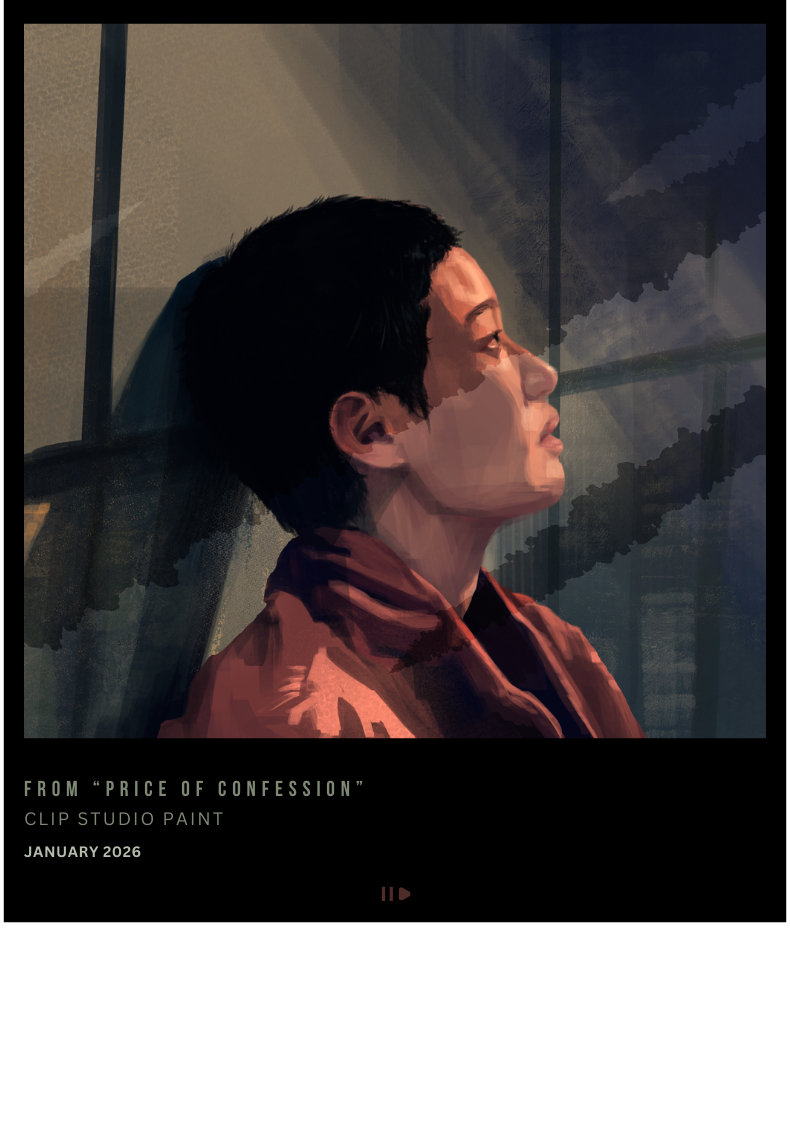
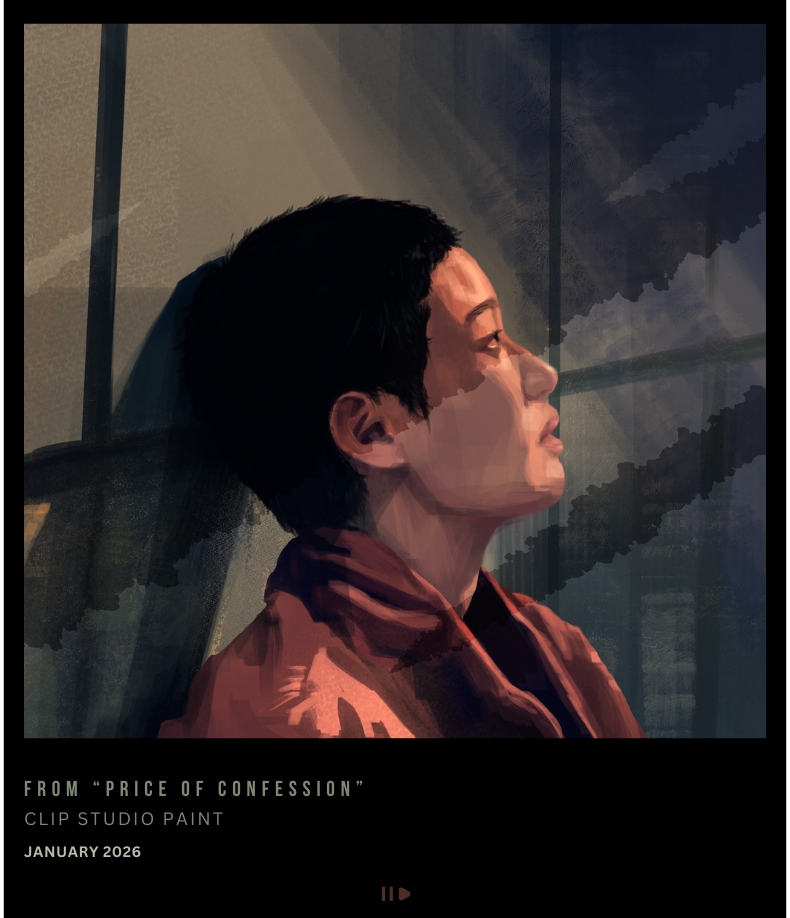
iad update

diff --git a/iad.html b/iad.html
@@ -140,20 +140,24 @@
       margin: 0 auto;
     }
     .masonry {
-      columns: 3;
-      column-gap: 12px;
+      display: grid;
+      grid-template-columns: repeat(3, 1fr);
+      gap: 12px;
+      align-items: start;
     }
-    @media (max-width: 900px) { .masonry { columns: 2; } }
-    @media (max-width: 560px) { .masonry { columns: 1; } }
+    @media (max-width: 900px) { .masonry { grid-template-columns: repeat(2, 1fr); } }
+    @media (max-width: 560px) { .masonry { grid-template-columns: 1fr; } }
 
     .masonry-item {
-      break-inside: avoid;
-      margin-bottom: 12px;
       cursor: zoom-in;
       position: relative;
       overflow: hidden;
       background: rgba(26,18,0,0.04);
     }
+    .masonry-item--hero {
+      grid-column: span 2;
+    }
+    @media (max-width: 560px) { .masonry-item--hero { grid-column: span 1; } }
     .masonry-item img {
       width: 100%;
       height: auto;
@@ -291,15 +295,13 @@
     }
     .kyoto-main-img {
       width: 100%;
-      aspect-ratio: 16/10;
       overflow: hidden;
-      background: rgba(26,18,0,0.06);
       cursor: zoom-in;
       position: relative;
     }
     .kyoto-main-img img {
-      width: 100%; height: 100%;
-      object-fit: contain;
+      width: 100%;
+      height: auto;
       display: block;
       transition: opacity 0.3s;
     }
@@ -482,7 +484,7 @@
   <div class="tabs-bar">
     <div class="tabs-inner">
       <button class="tab-btn active" onclick="switchTab('digital')" id="tab-digital">
-        Digital works <span class="tab-count">25</span>
+        Completed works <span class="tab-count">29</span>
       </button>
       <button class="tab-btn" onclick="switchTab('sketches')" id="tab-sketches">
         Sketches <span class="tab-count">10</span>
@@ -498,105 +500,121 @@
     <div class="masonry-wrap">
       <div class="masonry" id="masonry-digital">
 
-        <div class="masonry-item" onclick="openLb('digital',0)">
-          <img src="images/iad/45.png" alt="Digital work 1" loading="lazy" />
+        <div class="masonry-item masonry-item--hero" onclick="openLb('digital',0)">
+          <img src="images/iad/COME A LITTLE CLOSER.png" alt="Come a little closer" loading="lazy" />
           <div class="item-overlay"><span class="item-num">01</span></div>
         </div>
         <div class="masonry-item" onclick="openLb('digital',1)">
-          <img src="images/iad/44.png" alt="Digital work 2" loading="lazy" />
+          <img src="images/iad/BREATHE OUT THE AIR.png" alt="Breathe out the air" loading="lazy" />
           <div class="item-overlay"><span class="item-num">02</span></div>
         </div>
-        <div class="masonry-item" onclick="openLb('digital',2)">
-          <img src="images/iad/43.png" alt="Digital work 3" loading="lazy" />
+        <div class="masonry-item masonry-item--hero" onclick="openLb('digital',2)">
+          <img src="images/iad/45.png" alt="Digital work 45" loading="lazy" />
           <div class="item-overlay"><span class="item-num">03</span></div>
         </div>
         <div class="masonry-item" onclick="openLb('digital',3)">
-          <img src="images/iad/22.svg" alt="Digital work 4" loading="lazy" />
+          <img src="images/iad/CHUNKING EXPRESS.png" alt="Chunking express" loading="lazy" />
           <div class="item-overlay"><span class="item-num">04</span></div>
         </div>
-        <div class="masonry-item" onclick="openLb('digital',4)">
-          <img src="images/iad/21.svg" alt="Digital work 5" loading="lazy" />
+        <div class="masonry-item masonry-item--hero" onclick="openLb('digital',4)">
+          <img src="images/iad/43.png" alt="Digital work 43" loading="lazy" />
           <div class="item-overlay"><span class="item-num">05</span></div>
         </div>
         <div class="masonry-item" onclick="openLb('digital',5)">
-          <img src="images/iad/20.svg" alt="Digital work 6" loading="lazy" />
+          <img src="images/iad/SHARED DRINKS.png" alt="Shared drinks" loading="lazy" />
           <div class="item-overlay"><span class="item-num">06</span></div>
         </div>
         <div class="masonry-item" onclick="openLb('digital',6)">
-          <img src="images/iad/19.svg" alt="Digital work 7" loading="lazy" />
+          <img src="images/iad/44.png" alt="Digital work 44" loading="lazy" />
           <div class="item-overlay"><span class="item-num">07</span></div>
         </div>
         <div class="masonry-item" onclick="openLb('digital',7)">
-          <img src="images/iad/18.svg" alt="Digital work 8" loading="lazy" />
+          <img src="images/iad/22.svg" alt="Digital work 8" loading="lazy" />
           <div class="item-overlay"><span class="item-num">08</span></div>
         </div>
         <div class="masonry-item" onclick="openLb('digital',8)">
-          <img src="images/iad/17.svg" alt="Digital work 9" loading="lazy" />
+          <img src="images/iad/21.svg" alt="Digital work 9" loading="lazy" />
           <div class="item-overlay"><span class="item-num">09</span></div>
         </div>
         <div class="masonry-item" onclick="openLb('digital',9)">
-          <img src="images/iad/16.svg" alt="Digital work 10" loading="lazy" />
+          <img src="images/iad/20.svg" alt="Digital work 10" loading="lazy" />
           <div class="item-overlay"><span class="item-num">10</span></div>
         </div>
         <div class="masonry-item" onclick="openLb('digital',10)">
-          <img src="images/iad/15.svg" alt="Digital work 11" loading="lazy" />
+          <img src="images/iad/19.svg" alt="Digital work 11" loading="lazy" />
           <div class="item-overlay"><span class="item-num">11</span></div>
         </div>
         <div class="masonry-item" onclick="openLb('digital',11)">
-          <img src="images/iad/14.svg" alt="Digital work 12" loading="lazy" />
+          <img src="images/iad/18.svg" alt="Digital work 12" loading="lazy" />
           <div class="item-overlay"><span class="item-num">12</span></div>
         </div>
         <div class="masonry-item" onclick="openLb('digital',12)">
-          <img src="images/iad/13.svg" alt="Digital work 13" loading="lazy" />
+          <img src="images/iad/17.svg" alt="Digital work 13" loading="lazy" />
           <div class="item-overlay"><span class="item-num">13</span></div>
         </div>
         <div class="masonry-item" onclick="openLb('digital',13)">
-          <img src="images/iad/12.svg" alt="Digital work 14" loading="lazy" />
+          <img src="images/iad/16.svg" alt="Digital work 14" loading="lazy" />
           <div class="item-overlay"><span class="item-num">14</span></div>
         </div>
         <div class="masonry-item" onclick="openLb('digital',14)">
-          <img src="images/iad/11.svg" alt="Digital work 15" loading="lazy" />
+          <img src="images/iad/15.svg" alt="Digital work 15" loading="lazy" />
           <div class="item-overlay"><span class="item-num">15</span></div>
         </div>
         <div class="masonry-item" onclick="openLb('digital',15)">
-          <img src="images/iad/10.svg" alt="Digital work 16" loading="lazy" />
+          <img src="images/iad/14.svg" alt="Digital work 16" loading="lazy" />
           <div class="item-overlay"><span class="item-num">16</span></div>
         </div>
         <div class="masonry-item" onclick="openLb('digital',16)">
-          <img src="images/iad/9.svg" alt="Digital work 17" loading="lazy" />
+          <img src="images/iad/13.svg" alt="Digital work 17" loading="lazy" />
           <div class="item-overlay"><span class="item-num">17</span></div>
         </div>
         <div class="masonry-item" onclick="openLb('digital',17)">
-          <img src="images/iad/8.svg" alt="Digital work 18" loading="lazy" />
+          <img src="images/iad/12.svg" alt="Digital work 18" loading="lazy" />
           <div class="item-overlay"><span class="item-num">18</span></div>
         </div>
         <div class="masonry-item" onclick="openLb('digital',18)">
-          <img src="images/iad/7.svg" alt="Digital work 19" loading="lazy" />
+          <img src="images/iad/11.svg" alt="Digital work 19" loading="lazy" />
           <div class="item-overlay"><span class="item-num">19</span></div>
         </div>
         <div class="masonry-item" onclick="openLb('digital',19)">
-          <img src="images/iad/6.svg" alt="Digital work 20" loading="lazy" />
+          <img src="images/iad/10.svg" alt="Digital work 20" loading="lazy" />
           <div class="item-overlay"><span class="item-num">20</span></div>
         </div>
         <div class="masonry-item" onclick="openLb('digital',20)">
-          <img src="images/iad/5.svg" alt="Digital work 21" loading="lazy" />
+          <img src="images/iad/9.svg" alt="Digital work 21" loading="lazy" />
           <div class="item-overlay"><span class="item-num">21</span></div>
         </div>
         <div class="masonry-item" onclick="openLb('digital',21)">
-          <img src="images/iad/4.svg" alt="Digital work 22" loading="lazy" />
+          <img src="images/iad/8.svg" alt="Digital work 22" loading="lazy" />
           <div class="item-overlay"><span class="item-num">22</span></div>
         </div>
         <div class="masonry-item" onclick="openLb('digital',22)">
-          <img src="images/iad/3.svg" alt="Digital work 23" loading="lazy" />
+          <img src="images/iad/7.svg" alt="Digital work 23" loading="lazy" />
           <div class="item-overlay"><span class="item-num">23</span></div>
         </div>
         <div class="masonry-item" onclick="openLb('digital',23)">
-          <img src="images/iad/2.svg" alt="Digital work 24" loading="lazy" />
+          <img src="images/iad/6.svg" alt="Digital work 24" loading="lazy" />
           <div class="item-overlay"><span class="item-num">24</span></div>
         </div>
         <div class="masonry-item" onclick="openLb('digital',24)">
-          <img src="images/iad/1.svg" alt="Digital work 25" loading="lazy" />
+          <img src="images/iad/5.svg" alt="Digital work 25" loading="lazy" />
           <div class="item-overlay"><span class="item-num">25</span></div>
+        </div>
+        <div class="masonry-item" onclick="openLb('digital',25)">
+          <img src="images/iad/4.svg" alt="Digital work 26" loading="lazy" />
+          <div class="item-overlay"><span class="item-num">26</span></div>
+        </div>
+        <div class="masonry-item" onclick="openLb('digital',26)">
+          <img src="images/iad/3.svg" alt="Digital work 27" loading="lazy" />
+          <div class="item-overlay"><span class="item-num">27</span></div>
+        </div>
+        <div class="masonry-item" onclick="openLb('digital',27)">
+          <img src="images/iad/2.svg" alt="Digital work 28" loading="lazy" />
+          <div class="item-overlay"><span class="item-num">28</span></div>
+        </div>
+        <div class="masonry-item" onclick="openLb('digital',28)">
+          <img src="images/iad/1.svg" alt="Digital work 29" loading="lazy" />
+          <div class="item-overlay"><span class="item-num">29</span></div>
         </div>
 
       </div>
@@ -659,11 +677,9 @@
       <div class="kyoto-title-card">
         <p class="ktc-eyebrow">Kyoto Creators Competition 2024 · Excerpts</p>
         <h2 class="ktc-title">Hope is a<br>waking dream</h2>
-        <p class="ktc-sub">An illustrated series exploring hope, memory, and the architecture of the unconscious.</p>
         <div class="ktc-meta">
           <span class="ktc-pill">Digital illustration</span>
           <span class="ktc-pill">Competition entry</span>
-          <span class="ktc-pill">10 works</span>
           <span class="ktc-pill">2024</span>
         </div>
       </div>
@@ -713,7 +729,9 @@
     /* ── Image sets ── */
     const sets = {
       digital: [
-        'images/iad/45.png','images/iad/44.png','images/iad/43.png',
+        'images/iad/COME A LITTLE CLOSER.png','images/iad/BREATHE OUT THE AIR.png',
+        'images/iad/45.png','images/iad/CHUNKING EXPRESS.png',
+        'images/iad/43.png','images/iad/SHARED DRINKS.png','images/iad/44.png',
         'images/iad/22.svg','images/iad/21.svg','images/iad/20.svg',
         'images/iad/19.svg','images/iad/18.svg','images/iad/17.svg',
         'images/iad/16.svg','images/iad/15.svg','images/iad/14.svg',
